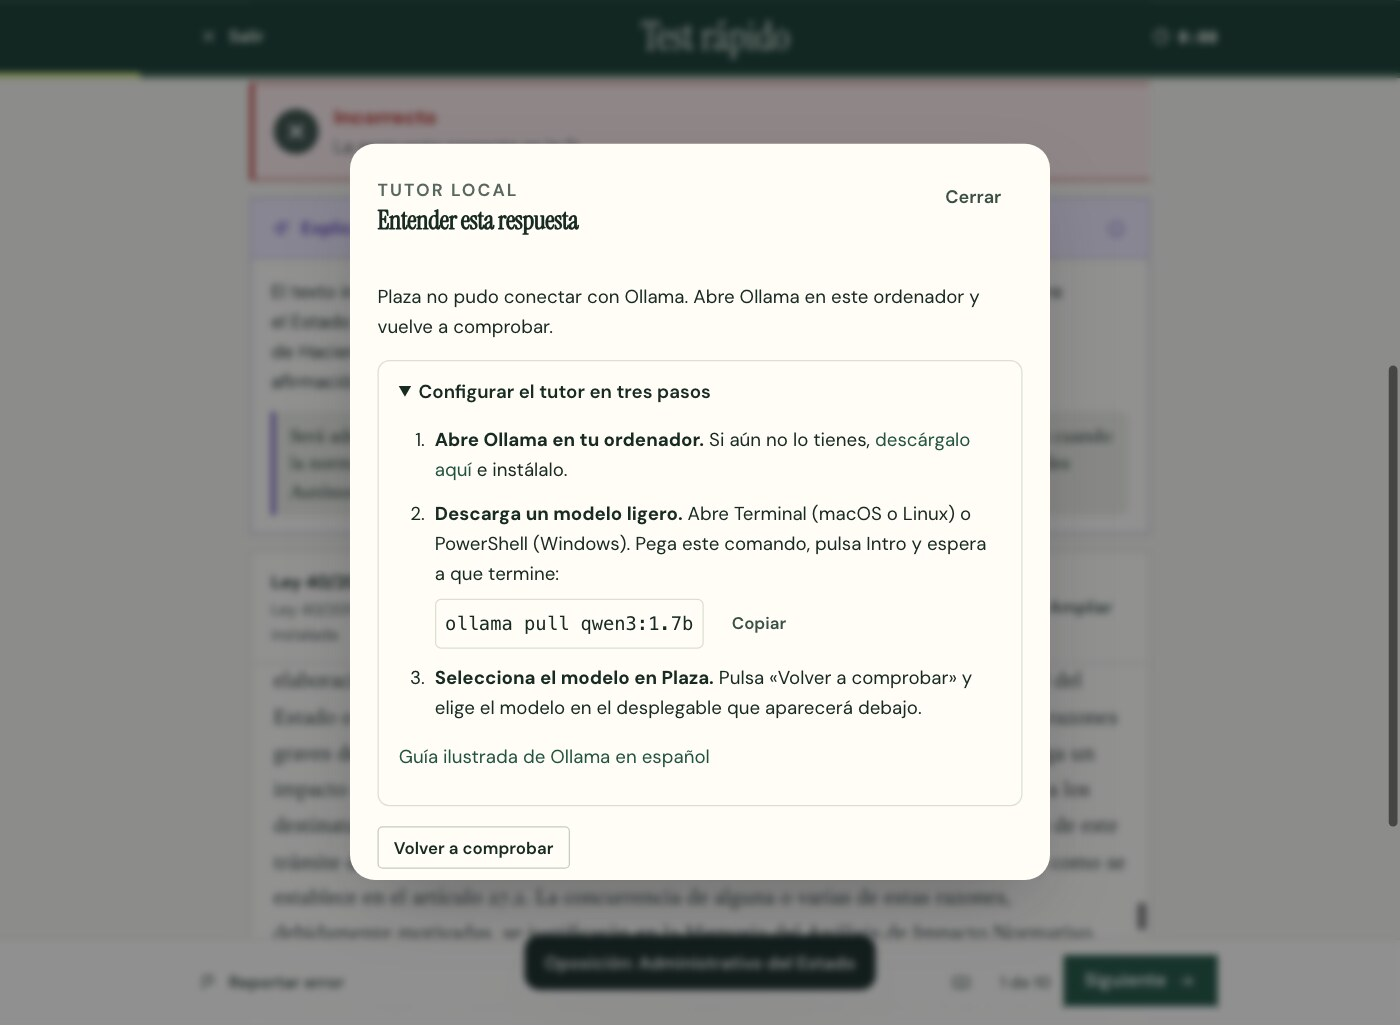
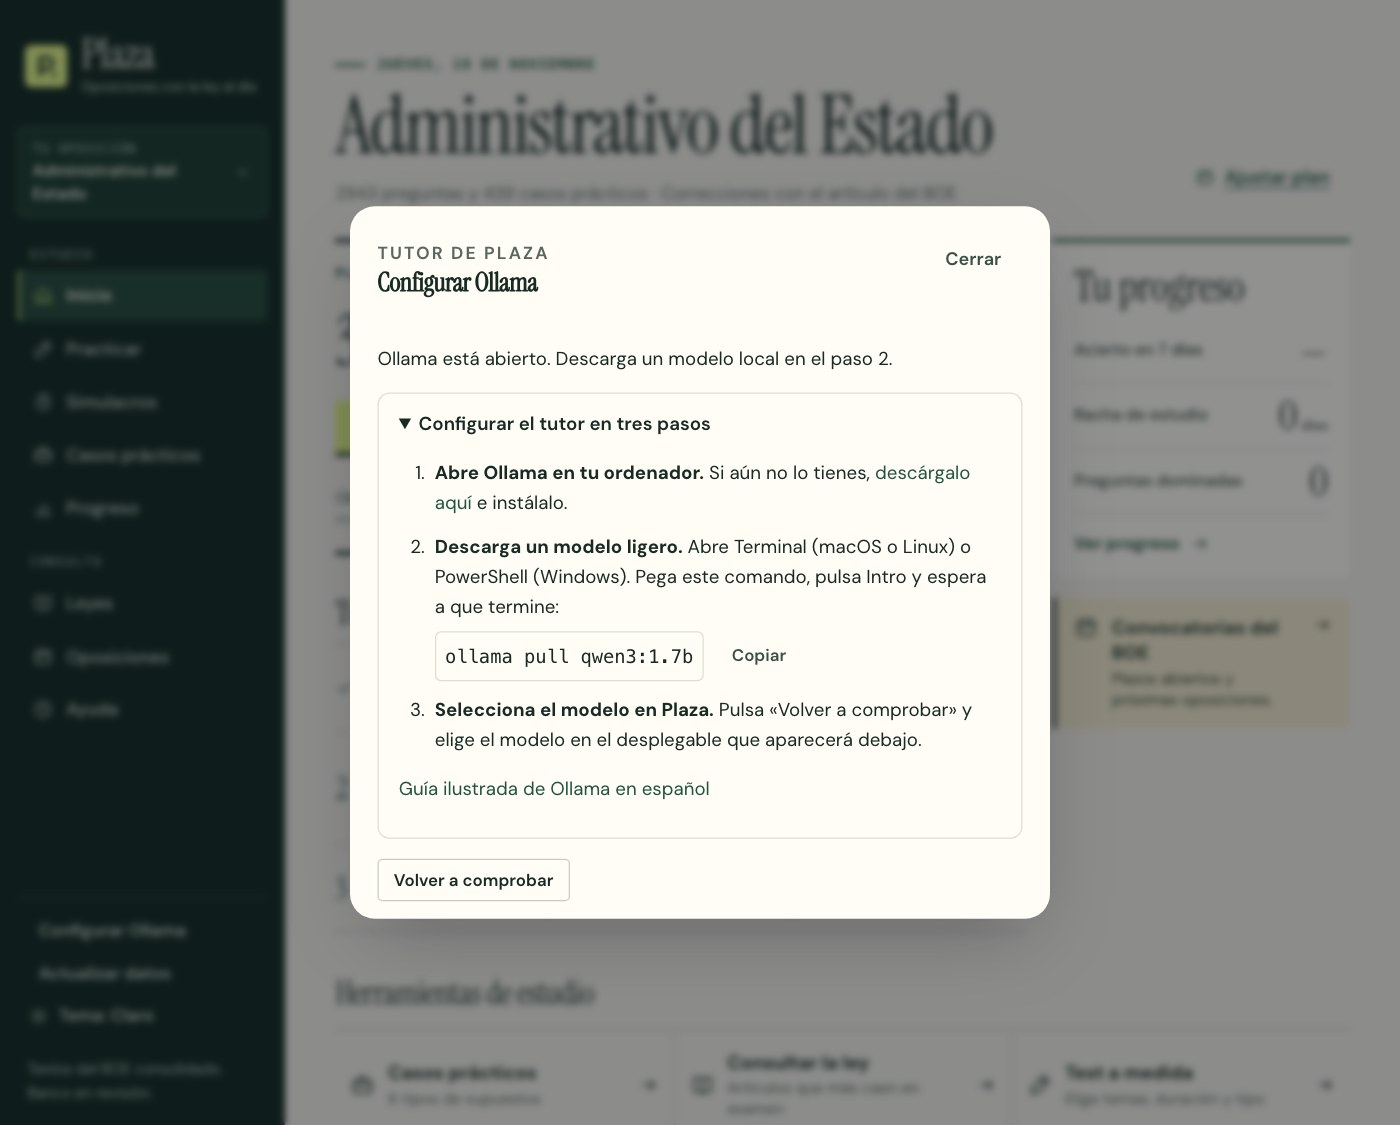
Recuperar el tutor conversacional y separar la configuración de Ollama

diff --git a/web/app.js b/web/app.js
@@ -230,8 +230,8 @@ function enlazaFundamento(root) {
     <p class="muted" style="font-size:13.5px">Aun así puede ser imprecisa. Si ves algo raro, usa «Reportar error».</p></div><div class="df"><button class="btn primary" data-cerrar>Entendido</button></div>`));
 }
 function tutorCTA() { return `<div class="tutor-cta"><span class="ico">${ic('ia')}</span><div><b>¿Te queda alguna duda?</b><span>Pregúntale al tutor por qué, pídele un ejemplo o un truco para recordarlo.</span></div><button class="btn sm" data-tutor>Preguntar</button></div>`; }
-async function abrirTutor(q, r, res, convocatoria = CONV_DE[q.banco] || '') {
-  const d = dialogo(`<div class="dh"><div><p class="eyebrow">Tutor local</p><h2>Entender esta respuesta</h2></div><button class="btn ghost" data-cerrar>Cerrar</button></div>
+function configurarTutor() {
+  const d = dialogo(`<div class="dh"><div><p class="eyebrow">Tutor de Plaza</p><h2>Configurar Ollama</h2></div><button class="btn ghost" data-cerrar>Cerrar</button></div>
     <form class="db tutor-local">
     <p role="status">Buscando modelos en Ollama…</p>
     <details class="tutor-guia">
@@ -252,15 +252,12 @@ async function abrirTutor(q, r, res, convocatoria = CONV_DE[q.banco] || '') {
     </details>
     <button class="btn sm" type="button" data-comprobar>Volver a comprobar</button>
     <div data-modelos hidden>
-      <p>${esc(q.enunciado)}</p><p><b>Respuesta correcta</b> · ${esc(op(q.opciones[res.correcta]))}</p>
-      <label>Modelo de tu ordenador<select required></select></label>
-      <label>Tu duda<textarea required maxlength="600">¿Por qué es correcta esta respuesta?</textarea></label>
-      <button class="btn primary" type="submit" disabled>Explicar con Ollama</button>
-      <div class="respuesta" aria-live="polite"></div>
+      <label>Modelo de tu ordenador<select></select></label>
+      <button class="btn primary" type="button" data-guardar-modelo>Guardar y cerrar</button>
     </div></form>`);
   const form = d.querySelector('form'), modelo = form.querySelector('select');
-  const estado = form.querySelector('[role=status]'), boton = form.querySelector('[type=submit]');
-  const salida = form.querySelector('.respuesta'), control = new AbortController();
+  const estado = form.querySelector('[role=status]'), boton = form.querySelector('[data-guardar-modelo]');
+  const control = new AbortController();
   const guia = form.querySelector('details'), comprobar = form.querySelector('[data-comprobar]');
   const campos = form.querySelector('[data-modelos]');
   d.addEventListener('close', () => control.abort(), {once:true});
@@ -309,7 +306,7 @@ async function abrirTutor(q, r, res, convocatoria = CONV_DE[q.banco] || '') {
       if (modelos.some(m => m.nombre === elegido)) modelo.value = elegido;
       guia.open = conexion.open = false;
       boton.disabled = false;
-      estado.textContent = 'Ollama está listo. Elige un modelo y escribe tu duda.';
+      estado.textContent = 'Ollama está listo. Elige un modelo y guarda tu selección.';
     } catch {
       if (control.signal.aborted) return;
       campos.hidden = true;
@@ -319,24 +316,119 @@ async function abrirTutor(q, r, res, convocatoria = CONV_DE[q.banco] || '') {
       comprobar.disabled = false;
     }
   };
-  form.onsubmit = async e => {
-    e.preventDefault();
-    if (boton.disabled) return;
-    comprobar.disabled = boton.disabled = true;
-    S.ui.ollamaModelo = modelo.value; save();
-    estado.textContent = 'El modelo está preparando la explicación…'; salida.textContent = '';
-    try {
-      const resultado = await ollama.responder({id:q.id, r, conv:convocatoria, modelo:modelo.value,
-        mensajes:[{role:'user', content:form.querySelector('textarea').value}], signal:control.signal,
-        onTexto:parte => { salida.append(document.createTextNode(parte)); }});
-      const v = resultado.verificacion;
-      estado.textContent = v.avisos.length ? 'Revisa la explicación. ' + v.avisos.join(' ') :
-        `Citas literales comprobadas: ${v.citas_ok} de ${v.citas}. Contrasta la explicación con el artículo.`;
-    } catch (error) {
-      if (!control.signal.aborted) estado.textContent = 'Ollama no pudo terminar. ' + error.message;
-    } finally { comprobar.disabled = boton.disabled = false; }
+  boton.onclick = () => {
+    S.ui.ollamaModelo = modelo.value;
+    save();
+    d.close();
+    toast('Tutor listo. Pulsa «Preguntar» en cualquier corrección.');
   };
   comprobar.click();
+}
+$$('[data-configurar-tutor]').forEach(boton => boton.onclick = configurarTutor);
+
+const TUT = Object.create(null);
+function md(t) {  // markdown mínimo y seguro: párrafos, listas, citas «…» o «> …», títulos y **negrita**
+  const inl = (x) => esc(x).replace(/\*\*([^*]+)\*\*/g, '<b>$1</b>').replace(/(^|[^*])\*([^*\n]+)\*/g, '$1<i>$2</i>').replace(/«([^»]{3,})»/g, '<q class="cita">$1</q>');
+  let h = '', lista = null, nOl = 0;  // nOl: último número de la lista numerada; un párrafo, cita o título la reinicia
+  const cierra = () => { if (lista) { h += `</${lista}>`; lista = null; } };
+  for (const b of t.trim().split(/\n{2,}/)) {
+    let par = [];
+    const vuelca = () => { if (par.length) { h += `<p>${par.join('<br>')}</p>`; par = []; nOl = 0; } };
+    for (const l of b.split('\n').filter((x) => x.trim())) {
+      let m;
+      if ((m = l.match(/^\s*(?:[-*•]|(\d+)[.)])\s+(.*)$/))) { vuelca(); const tag = m[1] ? 'ol' : 'ul'; if (lista !== tag) { cierra(); h += `<${tag}>`; lista = tag; } if (m[1]) { nOl = +m[1] > nOl ? +m[1] : nOl + 1; h += `<li value="${nOl}">${inl(m[2])}</li>`; } else h += `<li>${inl(m[2])}</li>`; continue; }  // nOl: sigue la numeración aunque unas viñetas la corten
+      if ((m = l.match(/^\s*>\s?(.*)$/))) { vuelca(); cierra(); nOl = 0; h += `<blockquote class="cita-b">${inl(m[1].replace(/^[“"«]|[”"»]$/g, ''))}</blockquote>`; continue; }
+      if ((m = l.match(/^\s*#{1,4}\s+(.*)$/))) { vuelca(); cierra(); nOl = 0; h += `<p><b>${inl(m[1])}</b></p>`; continue; }
+      if (lista && /^\s{2,}/.test(l)) { h = h.replace(/<\/li>$/, `<br>${inl(l.trim())}</li>`); continue; }
+      cierra(); par.push(inl(l));
+    }
+    vuelca(); if (!/^\s*(?:[-*•]|\d+[.)])\s/m.test(b)) cierra();
+  }
+  cierra(); return h;
+}
+function abrirTutor(q, r, res, convocatoria = CONV_DE[q.banco] || '') {
+  if (!S.ui.ollamaModelo) return configurarTutor();
+  const el = document.createElement('dialog');
+  el.id = 'tutor';
+  el.className = 'tutor-dialog on';
+  el.setAttribute('aria-labelledby', 'tutorT');
+  document.body.append(el);
+  const clave = JSON.stringify([q.id, convocatoria, r, S.ui.ollamaModelo]);
+  const conv = TUT[clave] = TUT[clave] || [];
+  const ley = res.norma && res.norma.startsWith('BO') ? `${articulo(res.bloque, res.texto)} · ${corta(res.norma, res.titulo)}` : (res.titulo || 'Caso práctico');
+  const blanco = r === null || r === undefined || r < 0; const fallo = !blanco && r !== res.correcta;
+  const sug = [fallo ? `¿Por qué no es «${op(q.opciones[r]).slice(0, 60)}»?` : blanco ? '¿Cómo llego a la respuesta correcta?' : '¿Por qué es esta la correcta?', 'Explícamelo con un ejemplo práctico', 'Dame un truco para recordarlo', '¿Qué suelen confundir los opositores aquí?'];
+  el.innerHTML = `<section class="tutor-p">
+      <header class="tutor-h"><span class="av">${ic('ia')}</span><div><h2 id="tutorT">Tutor de Plaza</h2><p>Entiende el porqué de cada respuesta</p></div><button class="btn ghost sm" data-cerrar-t aria-label="Cerrar tutor">${ic('x')}</button></header>
+      <div class="tutor-ctx"><p class="eyebrow">Sobre esta pregunta</p><p class="q">${esc(q.enunciado.replace(/\s+/g, ' '))}</p>
+        <p class="tutor-referencia">${ic('leyes', 'sm')} ${esc(ley)}</p><div class="row">${blanco ? '<span class="pill">En blanco</span>' : `<span class="pill ${fallo ? 'bad' : 'ok'}">Tu respuesta: ${LETRAS[r]}</span>`}<span class="pill ok">Correcta: ${LETRAS[res.correcta]}</span></div></div>
+      <div class="tutor-msgs" id="tMsgs" aria-live="polite"></div>
+      <div class="tutor-sug" id="tSug">${sug.map((s) => `<button class="chip" data-s="${esc(s)}">${esc(s)}</button>`).join('')}</div>
+      <form class="tutor-in" id="tForm"><textarea id="tTxt" rows="1" placeholder="Escribe tu duda…" maxlength="600" aria-label="Tu duda"></textarea><button class="btn primary send" id="tSend" aria-label="Enviar">${ic('enviar')}</button></form>
+      <p class="tutor-foot">Contrasta la explicación con el artículo.</p>
+    </section>`;
+  const msgs = $('#tMsgs', el), txt = $('#tTxt', el), send = $('#tSend', el);
+  let solicitud = null;
+  const ajustar = () => { msgs.scrollTop = msgs.scrollHeight; };
+  function pintar() {
+    msgs.innerHTML = `<div class="msg a"><span class="av sm">${ic('ia', 'sm')}</span><div class="mb"><p>¿Qué parte de esta respuesta quieres entender mejor?</p></div></div>` +
+      conv.map(m => m.role === 'user' ? `<div class="msg u">${esc(m.content)}</div>` :
+        `<div class="msg a"><span class="av sm">${ic('ia', 'sm')}</span><div class="mb">${md(m.content)}
+        ${m.ver?.avisos.length ? `<p class="ver warn">${esc(m.ver.avisos.join(' '))}</p>` : ''}
+        ${m.error ? `<p class="err">${esc(m.error)}</p>` : ''}</div></div>`).join('');
+    $('#tSug', el).hidden = conv.length > 0;
+    ajustar();
+  }
+  async function enviar(texto) {
+    texto = texto.trim();
+    if (!texto || solicitud) return;
+    conv.push({ role: 'user', content: texto });
+    const historial = conv.filter(m => !m.error).map(({role, content}) => ({role, content}));
+    const respuesta = { role: 'assistant', content: '' };
+    conv.push(respuesta);
+    txt.value = '';
+    pintar();
+    const destino = $('.mb', msgs.lastElementChild);
+    destino.textContent = 'Leyendo el artículo…';
+    ajustar();
+    solicitud = new AbortController();
+    send.innerHTML = ic('parar');
+    send.setAttribute('aria-label', 'Detener respuesta');
+    try {
+      const resultado = await Plaza.tutorLocal.responder({
+        id: q.id, r: blanco ? null : r, conv: convocatoria, modelo: S.ui.ollamaModelo,
+        mensajes: historial, signal: solicitud.signal,
+        onTexto: trozo => { respuesta.content += trozo; destino.innerHTML = md(respuesta.content); ajustar(); },
+      });
+      respuesta.ver = resultado.verificacion;
+      if (!respuesta.content.trim()) respuesta.error = 'No he recibido una respuesta. Inténtalo otra vez.';
+    } catch (error) {
+      respuesta.error = solicitud.signal.aborted ? 'Respuesta detenida.' :
+        'No he podido responder. Comprueba el tutor desde «Configurar Ollama» en el menú.';
+    } finally {
+      solicitud = null;
+      send.innerHTML = ic('enviar');
+      send.setAttribute('aria-label', 'Enviar');
+      if (el.open) { pintar(); txt.focus(); }
+    }
+  }
+  $('#tForm', el).onsubmit = e => {
+    e.preventDefault();
+    if (solicitud) solicitud.abort();
+    else enviar(txt.value);
+  };
+  txt.onkeydown = e => {
+    if (e.key === 'Enter' && !e.shiftKey && !e.isComposing) {
+      e.preventDefault();
+      enviar(txt.value);
+    }
+  };
+  $$('[data-s]', el).forEach(boton => boton.onclick = () => enviar(boton.dataset.s));
+  $('[data-cerrar-t]', el).onclick = () => el.close();
+  el.addEventListener('click', e => { if (e.target === el) el.close(); });
+  el.addEventListener('close', () => { solicitud?.abort(); el.remove(); }, {once:true});
+  pintar();
+  el.showModal();
 }
 
 function reportar(id, r, conv = '') {

diff --git a/web/index.html b/web/index.html
@@ -28,6 +28,7 @@
     </button>
     <nav class="nav" id="nav" aria-label="Secciones de Plaza"></nav>
     <div class="side-foot">
+      <button class="btn ghost sm" type="button" data-configurar-tutor>Configurar Ollama</button>
       <button class="btn ghost sm" type="button" data-actualizar>Actualizar datos</button>
       <button class="btn ghost sm tema-btn" id="tema" type="button"></button>
       <div class="offline" id="offline" hidden><span class="dot"></span>Sin conexión · todo sigue disponible</div>
@@ -36,7 +37,7 @@
   </aside>
   <header class="topbar">
     <a class="brand" href="#/inicio" aria-label="Plaza, inicio"><span class="logo" aria-hidden="true"><svg viewBox="0 0 32 32"><rect width="32" height="32" rx="5"/><path d="M11.5 22.5v-13h5a4.25 4.25 0 0 1 0 8.5h-5"/><circle cx="21.6" cy="22.4" r="1.7"/></svg></span><span class="brand-t">Plaza</span></a>
-    <div class="top-r"><button class="icon-btn" type="button" data-actualizar aria-label="Actualizar datos" title="Actualizar datos">↻</button><button class="icon-btn" id="temaM" type="button" aria-label="Cambiar tema"></button><a class="icon-btn" href="#/ayuda" aria-label="Ayuda"><svg class="i" viewBox="0 0 24 24" aria-hidden="true"><circle cx="12" cy="12" r="8.5"/><path d="M9.7 9.6a2.4 2.4 0 0 1 4.6.9c0 1.6-2.3 2-2.3 3.5"/><path d="M12 16.9h.01"/></svg></a>
+    <div class="top-r"><button class="icon-btn" type="button" data-configurar-tutor aria-label="Configurar Ollama" title="Configurar Ollama">⚙</button><button class="icon-btn" type="button" data-actualizar aria-label="Actualizar datos" title="Actualizar datos">↻</button><button class="icon-btn" id="temaM" type="button" aria-label="Cambiar tema"></button><a class="icon-btn" href="#/ayuda" aria-label="Ayuda"><svg class="i" viewBox="0 0 24 24" aria-hidden="true"><circle cx="12" cy="12" r="8.5"/><path d="M9.7 9.6a2.4 2.4 0 0 1 4.6.9c0 1.6-2.3 2-2.3 3.5"/><path d="M12 16.9h.01"/></svg></a>
     <button class="chip-btn" id="opoSwitchM" type="button"><span id="opoNombreM">Oposición</span><svg class="i" viewBox="0 0 24 24" aria-hidden="true"><path d="m8 10 4 4 4-4"/></svg></button></div>
   </header>
   <main id="main" tabindex="-1"></main>

diff --git a/web/app.css b/web/app.css
@@ -801,3 +801,10 @@ button.icon-btn{cursor:pointer;padding:0}
 .tutor-guia li {padding-inline-start: .25rem; margin-block: .65rem}
 .tutor-comando {display: flex; flex-wrap: wrap; align-items: center; gap: .6rem; margin-top: .5rem}
 .tutor-comando code {padding: .45rem; border: 1px solid var(--line); border-radius: .3rem; user-select: all}
+.tutor-dialog {position:fixed;inset:0 0 0 auto;margin:0;border:0;padding:0;width:min(480px,100vw);height:100dvh;max-width:none;max-height:none;background:transparent;color:var(--ink)}
+.tutor-dialog::backdrop {background:rgba(10,14,20,.28)}
+.tutor-dialog .tutor-p {position:relative;width:100%;height:100%;transform:none}
+.tutor-dialog .tutor-msgs {min-height:80px}
+.tutor-dialog .tutor-sug {max-height:26vh;overflow:auto}
+.tutor-dialog .tutor-in textarea {min-width:0}
+.tutor-dialog .tutor-sug[hidden] {display:none}

diff --git a/docs/TUTOR.md b/docs/TUTOR.md
@@ -4,30 +4,31 @@ Ollama ejecuta un modelo de IA en tu ordenador para ayudarte a entender la corre
 
 ## Configuración paso a paso con capturas
 
-### Abre el tutor desde una corrección
+### Configura el tutor una vez
 
-Instala y abre Ollama siguiendo los pasos de tu sistema que aparecen [más abajo](#1-instala-ollama). En Plaza, responde una pregunta y pulsa **Preguntar** al pie de la corrección.
+Instala Ollama siguiendo [los pasos de tu sistema](#1-instala-ollama). En Plaza, pulsa **Configurar Ollama** debajo del menú lateral. En una pantalla estrecha, usa el icono de configuración de la barra superior.
 
-![Corrección de Plaza con el botón Preguntar al final del fundamento](capturas/tutor/preguntar.jpg)
-
-### Descarga el modelo y vuelve a comprobar
-
-Si el tutor aún no detecta un modelo, se abrirá la guía de configuración. En **Terminal** (macOS o Linux) o **PowerShell** (Windows), ejecuta el comando del recuadro. Si ya tienes un modelo local instalado, puedes pasar directamente a **Volver a comprobar**.
+Si aún necesitas un modelo, abre Terminal (macOS o Linux) o PowerShell (Windows) y ejecuta:
 
 ```text
 ollama pull qwen3:1.7b
-ollama list
 ```
 
-Ejecuta `ollama list` cuando termine la descarga y comprueba que aparece `qwen3:1.7b`. Regresa a Plaza y pulsa **Volver a comprobar** en el mismo cuadro.
+Cuando termine, vuelve a Plaza, pulsa **Volver a comprobar**, elige el modelo y selecciona **Guardar y cerrar**.
 
-![Guía de configuración de Plaza con el comando para copiar y el botón Volver a comprobar](capturas/tutor/configuracion.jpg)
+![Configuración de Ollama en Plaza con el comando de descarga y el botón Volver a comprobar](capturas/tutor/configuracion.jpg)
 
-### Elige un modelo y pide una explicación
+### Pregunta desde una corrección
 
-En **Modelo de tu ordenador**, selecciona el que acabas de descargar o uno que ya tuvieras instalado. Escribe tu duda y pulsa **Explicar con Ollama**. La captura muestra una prueba con `qwen2.5:3b`. Lee la respuesta junto al artículo que aparece en la corrección.
+Responde una pregunta y pulsa **Preguntar** al pie del fundamento.
 
-![Tutor de Plaza con un modelo local seleccionado y una explicación generada](capturas/tutor/modelo-y-respuesta.jpg)
+![Corrección de Plaza con el botón Preguntar al final del fundamento](capturas/tutor/preguntar.jpg)
+
+### Habla con el tutor
+
+Usa una de las sugerencias para entender tu error, pedir un ejemplo o buscar un truco para recordar la respuesta. También puedes escribir tu propia duda y hacer una pregunta de seguimiento. Plaza usa el modelo que guardaste en la configuración.
+
+![Panel del Tutor de Plaza con una pregunta y una explicación generada](capturas/tutor/modelo-y-respuesta.jpg)
 
 ## 1. Instala Ollama
 
@@ -60,9 +61,9 @@ Los modelos más pequeños sirven para empezar y pueden dar explicaciones más l
 
 ## 3. Haz tu primera pregunta
 
-1. Copia el comando de la tabla en Terminal o PowerShell y pulsa Intro. Espera a que termine la descarga. Usa `ollama list` para confirmar que aparece el modelo.
-2. Mantén Ollama abierto e inicia Plaza en el mismo ordenador. Responde una pregunta y pulsa **Preguntar** en la corrección.
-3. Selecciona el modelo que descargaste. Prueba con «¿Qué parte del artículo descarta mi respuesta?» y pulsa **Explicar con Ollama**. La primera respuesta puede tardar mientras el modelo se carga.
+1. Copia el comando de la tabla en Terminal o PowerShell. Cuando termine la descarga, usa `ollama list` para confirmar que aparece el modelo.
+2. Mantén Ollama abierto e inicia Plaza en el mismo ordenador. En **Configurar Ollama**, selecciona el modelo y pulsa **Guardar y cerrar**.
+3. Responde una pregunta y pulsa **Preguntar** en la corrección. Prueba con «¿Qué parte del artículo descarta mi respuesta?». La primera respuesta puede tardar mientras el modelo se carga.
 4. Lee la explicación junto al artículo. Una cita literal puede ser correcta aunque la interpretación sea equivocada.
 
-Si el selector aparece vacío, comprueba que Ollama está abierto y que `ollama list` muestra el modelo. Pulsa **Volver a comprobar** en el mismo cuadro. [Ayuda de Plaza](AYUDA.md) · [Solución de problemas en Aulafy.net](https://www.aulafy.net/cursos/ia-local/troubleshooting-ollama)
+Si necesitas cambiar de modelo o verificar la conexión, vuelve a **Configurar Ollama**. [Ayuda de Plaza](AYUDA.md) · [Solución de problemas en Aulafy.net](https://www.aulafy.net/cursos/ia-local/troubleshooting-ollama)
